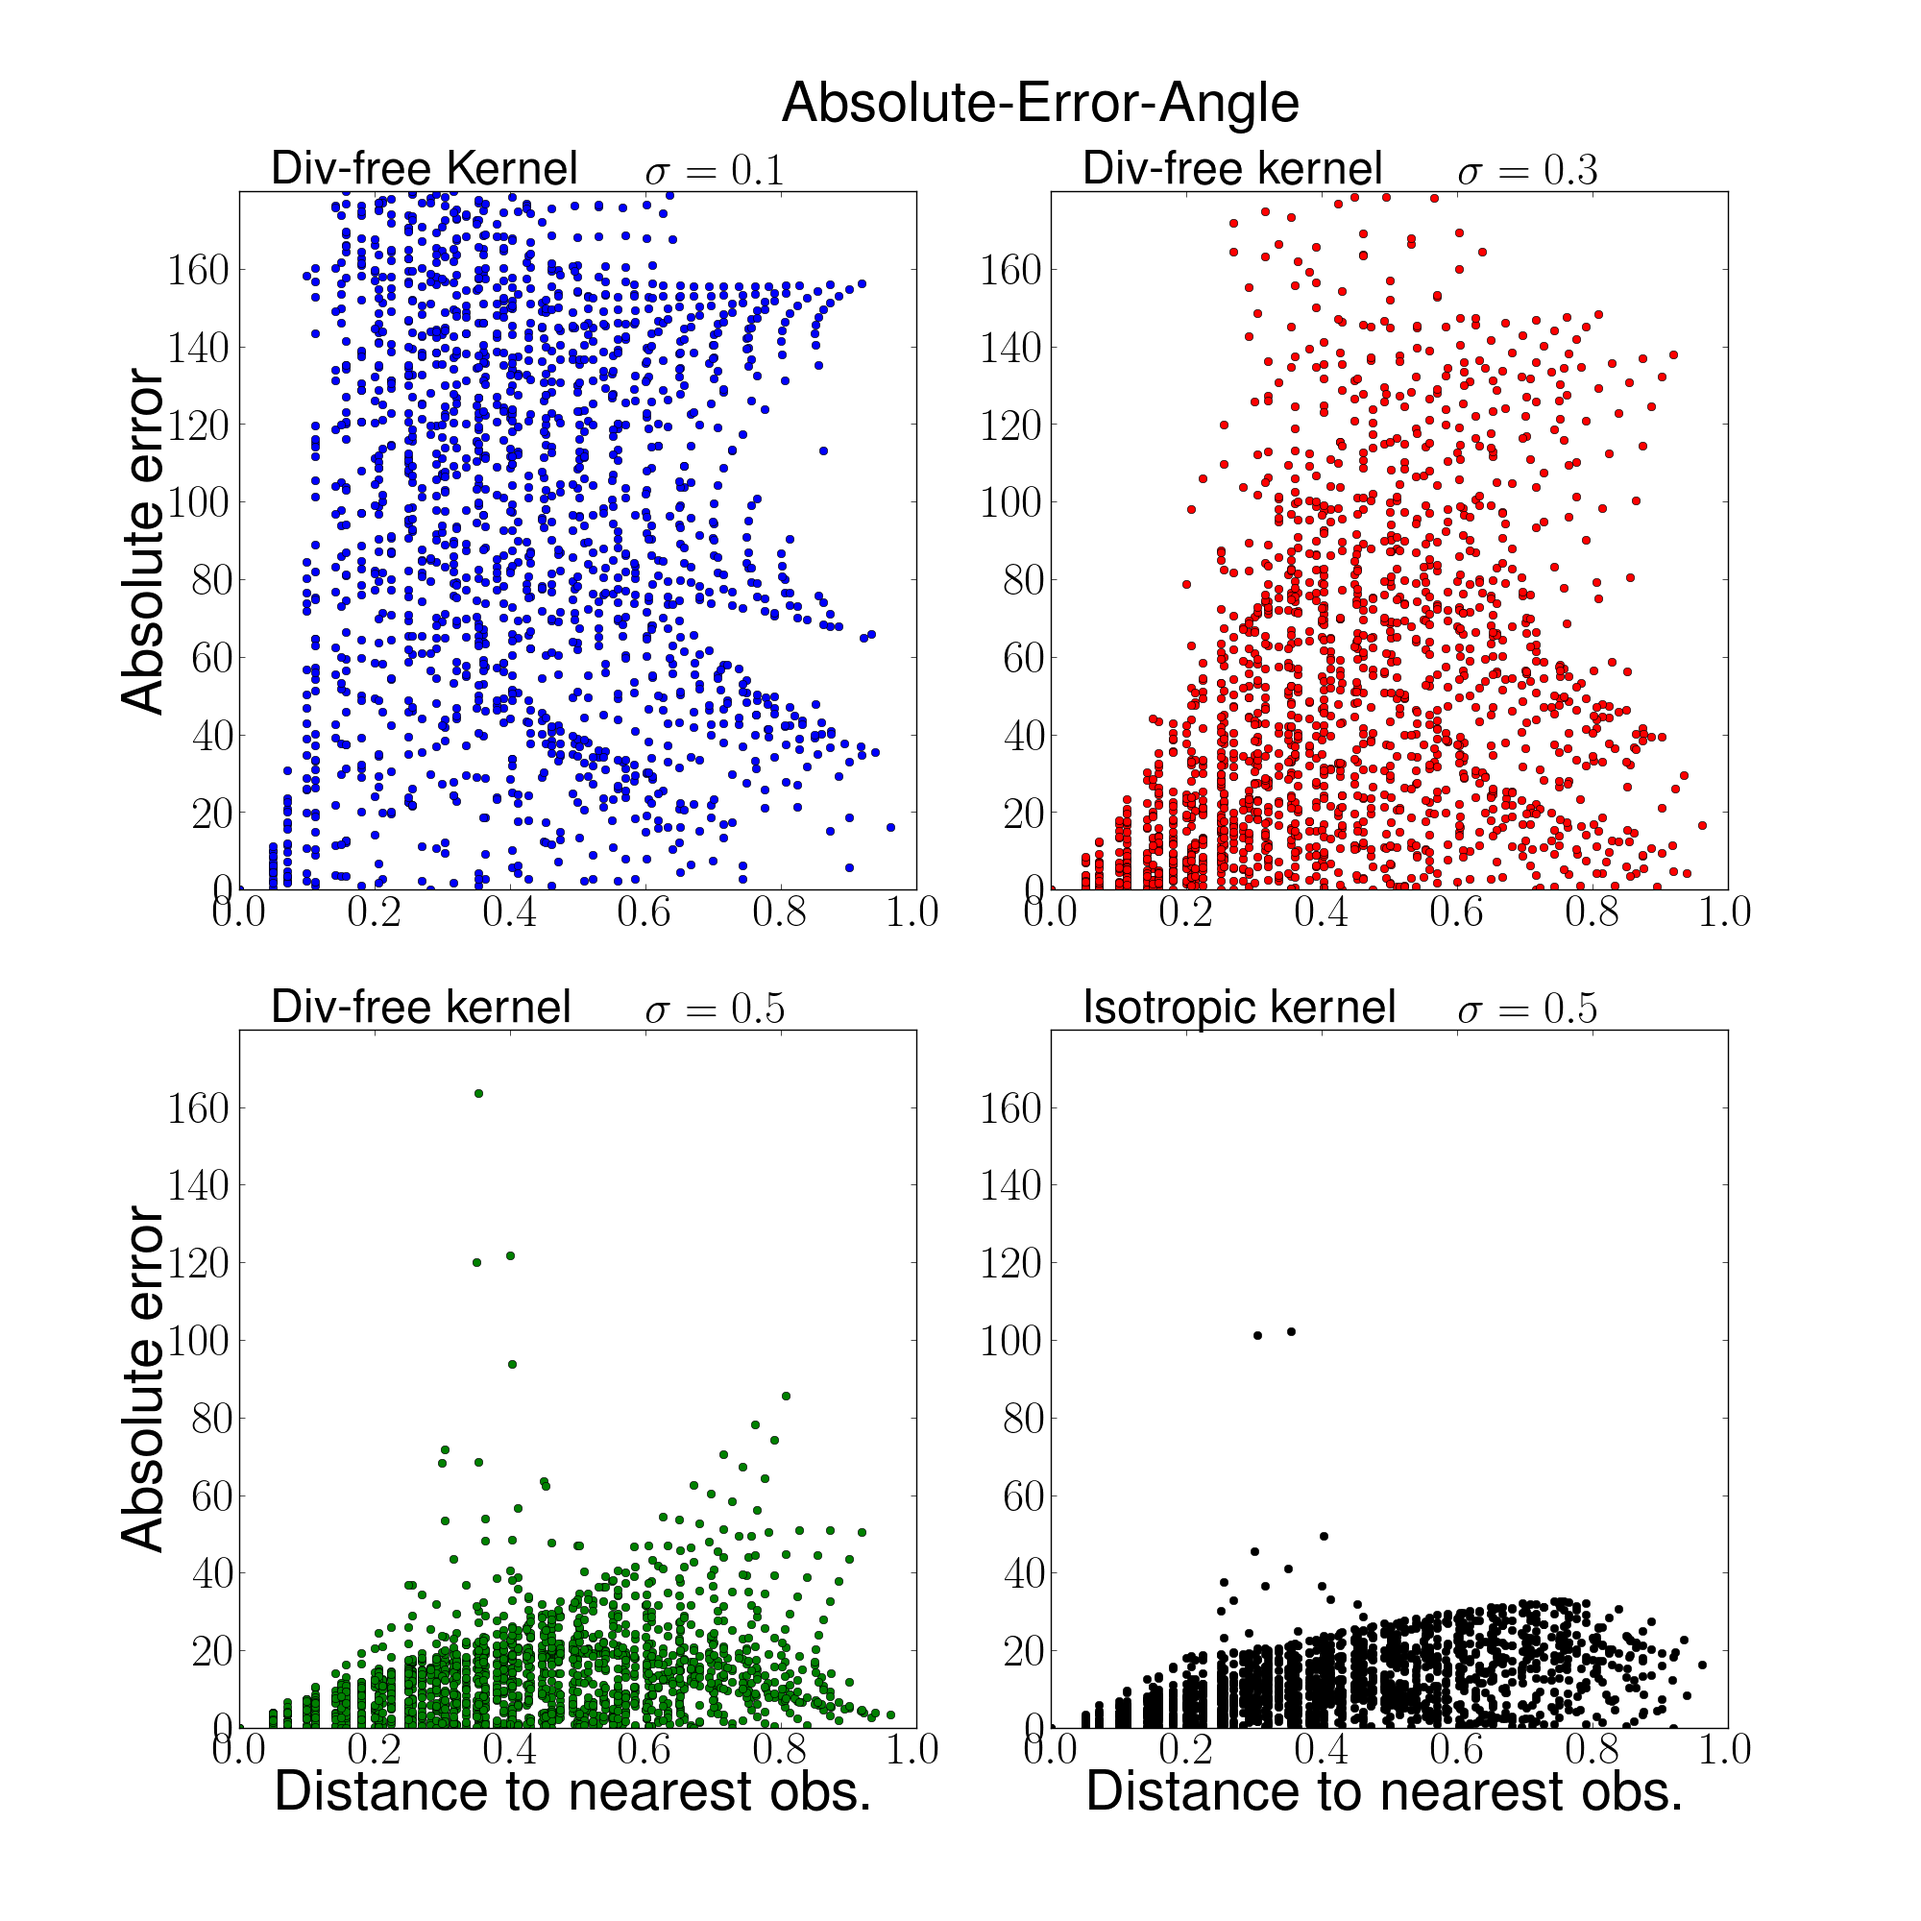
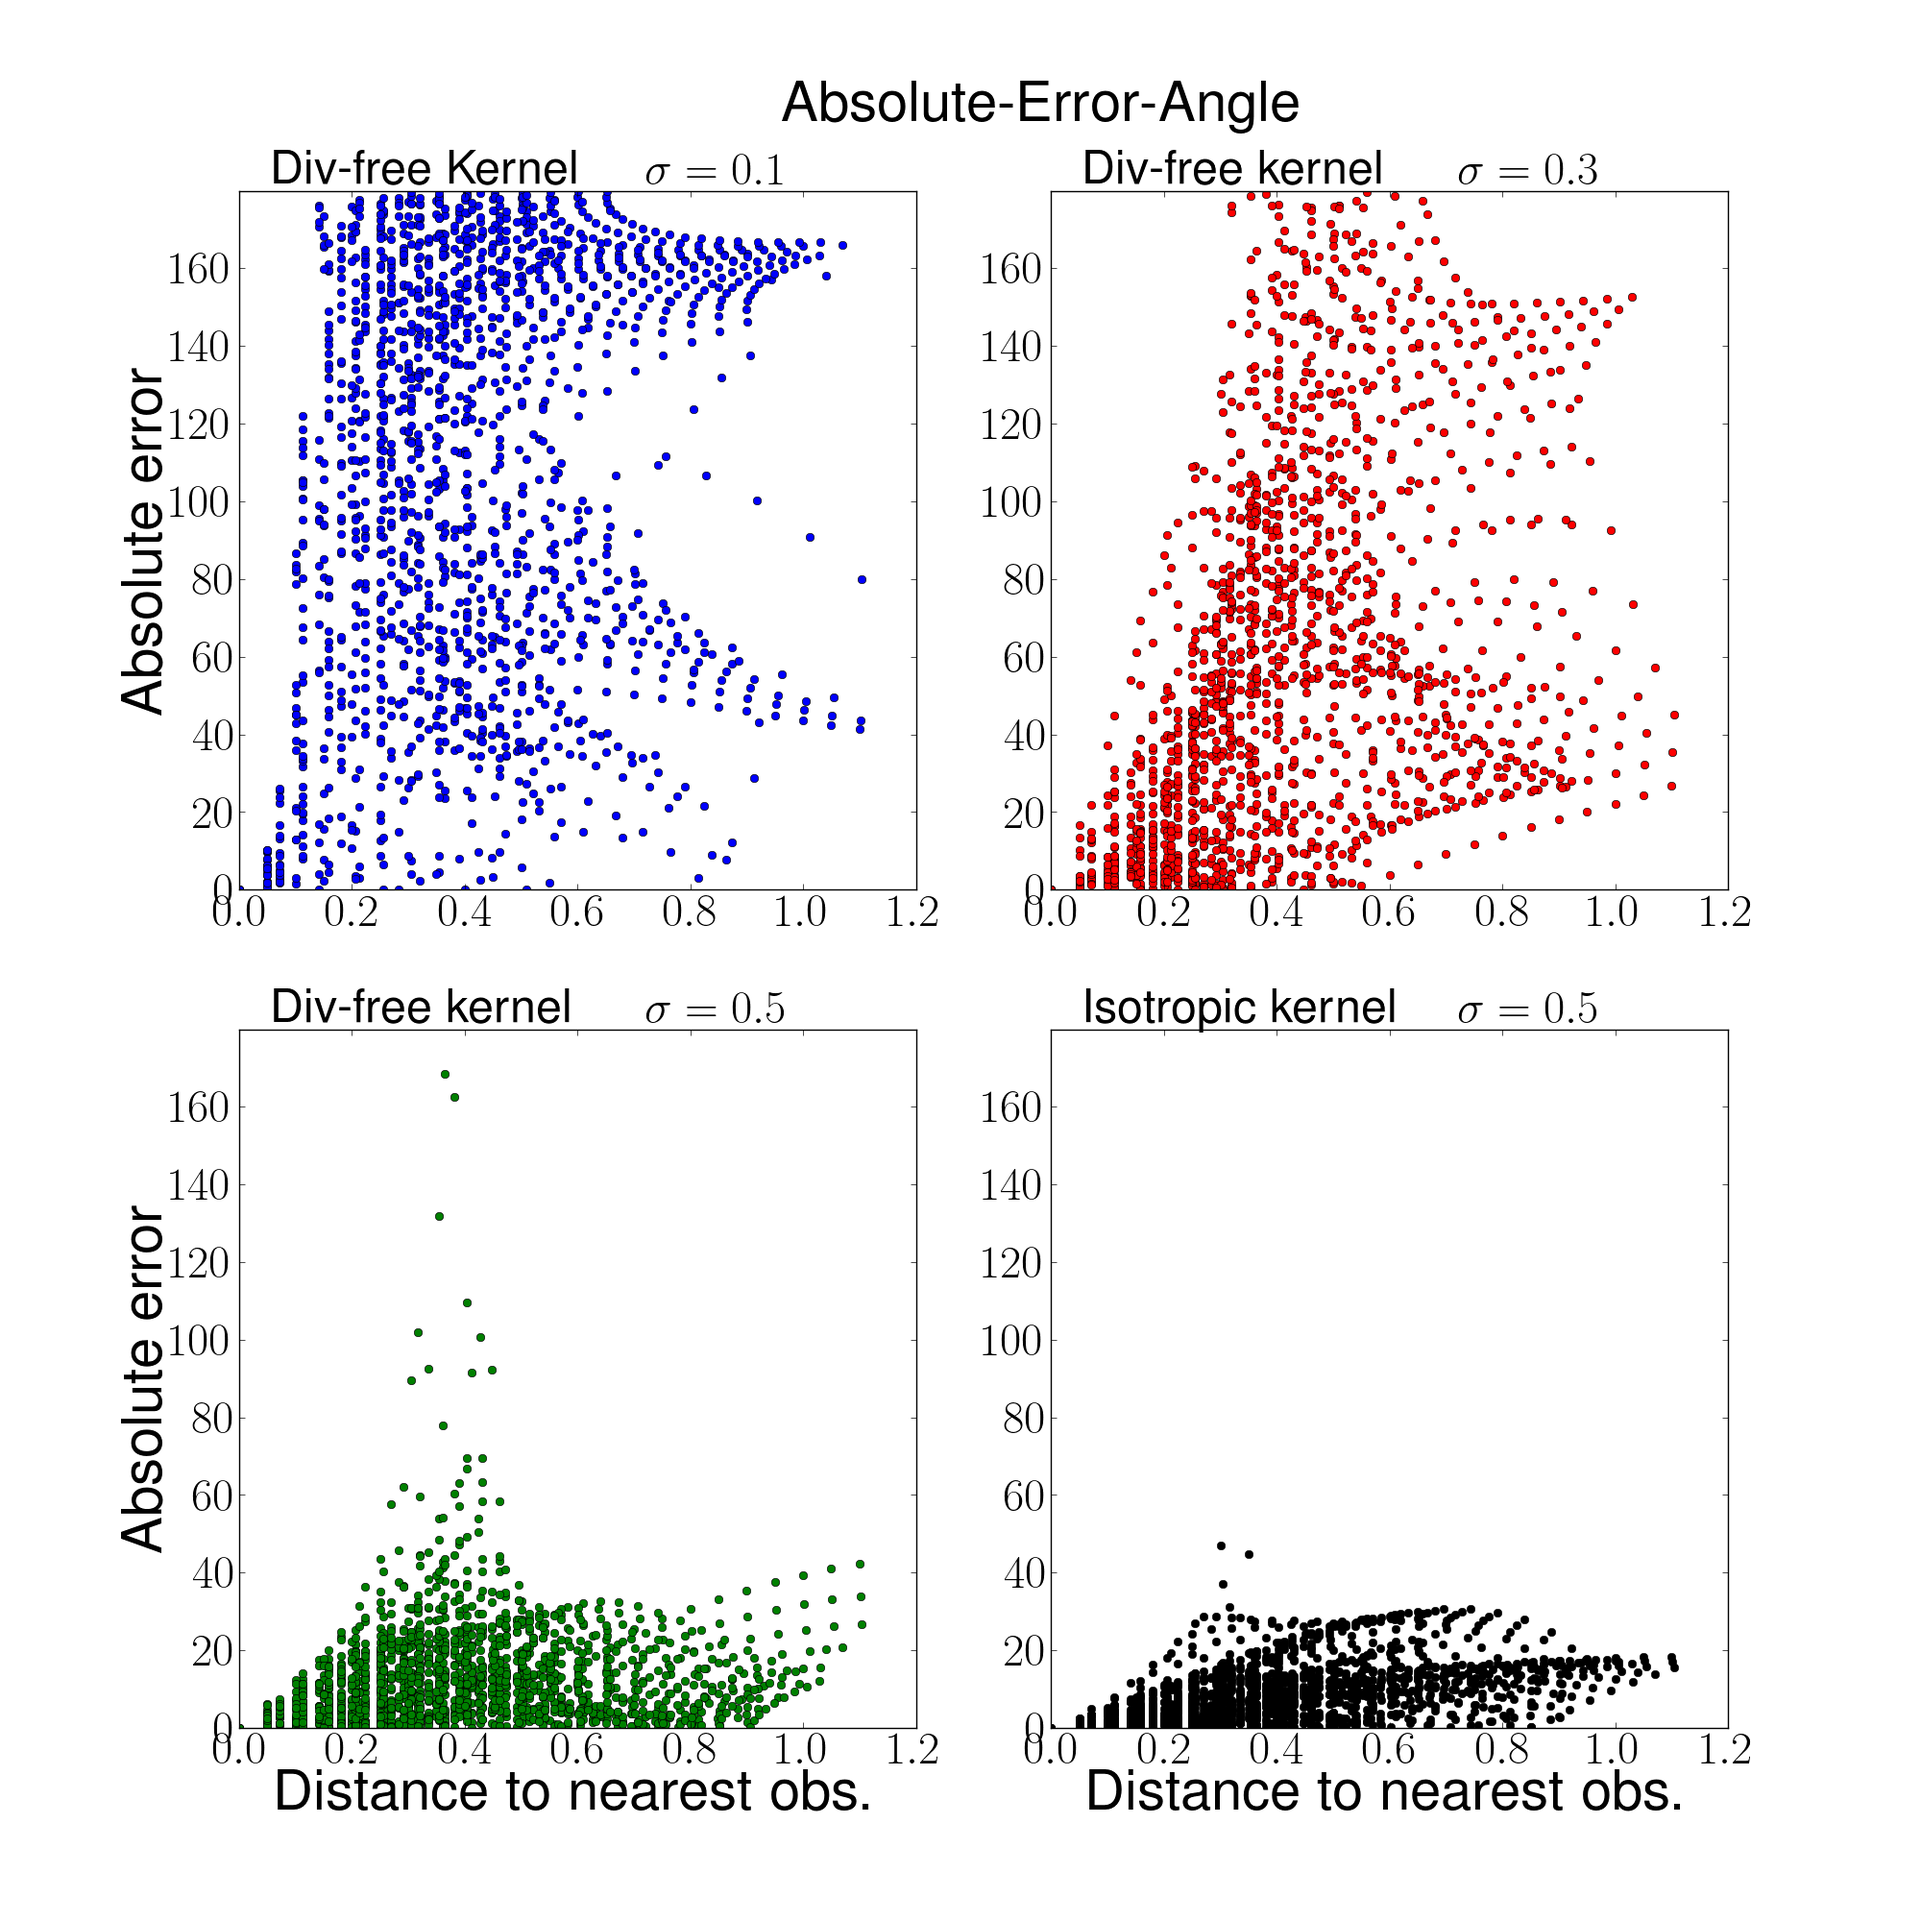
Plot improvements, report and single vector plots(incomplete)

diff --git a/report.tex b/report.tex
@@ -22,35 +22,93 @@
 \author{}
 
 \begin{document}
-\section{Reconstruction of a non-divergent velocity field}
-In this exercise, I applied the non-divergent kernel to reconstruct 
-a non-divergent velocity field. The velocity field was created by taking 
-the curl of a 2D Gaussian surface. To reconstruct this velocity field, 
-20 random samples were taken as observations, and the grid of the reconstructed 
-velocity field was exactly the same as the one from the original velocity field. 
-No noise was added to the observations, and the observations where assumed to 
-have no error.
+
+\section{Building a velocity field with one observation}
+Here, the effect of a single observation is evaluated. Three different kernels are tested: 
+a divergence-free kernel, a curl-free kernel and an isotropic squared-exponential kernel. 
+\newpage
+\section{Building a velocity field with two observations}
+Here, the combined effect of two observations in the construction of a velocity field using 
+the divergence-free kernel is explored. Figures \ref{2-vec-45}, \ref{2-vec-90}, and \ref{2-vec-180} 
+show the construction of velocity fields considering differences in the relative position of 
+the observations, intensity and direction.
+\begin{figure}
+\centering\includegraphics[width=36pc]{plots/2_vectors_angle_45.png}
+\caption{Velocity fields constructed from two observations (red vectors). 
+In each construction,  different distances between observations ($|x_2 - x_1|$) 
+and different absolute velocities of one observation ($|v_2|$) were considered. 
+For all 6 cases, the difference in the velocity direction is $\Theta=45^o$. }
+\label{2-vec-45}
+\end{figure}
+
+\begin{figure}
+\centering\includegraphics[width=36pc]{plots/2_vectors_angle_90.png}
+\caption{Velocity fields constructed from two observations (red vectors). 
+In each construction,  different distances between observations ($|x_2 - x_1|$) 
+and different absolute velocities of one observation ($|v_2|$) were considered. 
+For all 6 cases, the difference in the velocity direction is $\Theta=90^o$. }
+\label{2-vec-90}
+\end{figure}
+
+\begin{figure}
+\centering\includegraphics[width=36pc]{plots/2_vectors_angle_180.png}
+\caption{Velocity fields constructed from two observations (red vectors). 
+In each construction,  different distances between observations ($|x_2 - x_1|$) 
+and different absolute velocities of one observation ($|v_2|$) were considered. 
+For all 6 cases, the difference in the velocity direction is $\Theta=180^o$. }
+\label{2-vec-180}
+\end{figure}
 
 \newpage
+\section{Reconstruction of a non-divergent velocity field}
+
+In this exercise, the non-divergent kernel was applied to reconstruct 
+a non-divergent velocity field. The original velocity field (Figure \ref{div-free-field}) 
+was created by taking the curl of a 2D Gaussian surface. For the reconstruction, 3 
+different values of the decorrelation length ($\sigma$) were tested (0.1, 0.3 and 0.5). 
+For comparison, a fourth reconstruction was carried out using the isotropic squared 
+exponential kernel with $\sigma = 0.5$. The results of this exercise are presented on the 
+following figures.
+
+
+\begin{figure}
+\centering\includegraphics[width=20pc]{plots/non-div-field.png}
+\caption{Original velocity field.}
+\label{div-free-field}
+\end{figure}
+
+
+
+\begin{figure}
+\noindent\includegraphics[width=36pc]{plots/Reconstructed-Velocity.png}
+\caption{Reconstructed velocity fields considering different decorrelation 
+distances ($\sigma$) or kernels. Top-left, top-right and bottom-left: 
+divergence-free kernel with $\sigma=0.1$, $\sigma=0.3$, and $sigma=0.5$, 
+respectively. Bottom-right: isotropic squared-exponential kernel with 
+$\sigma=0.5$. The red dots indicate the location of the observations.}
+\label{vel_vectors}
+\end{figure}
+
+\begin{figure}
+\noindent\includegraphics[width=36pc]{plots/Velocity-Error.png}
+\caption{Difference between the reconstructed velocity fields from Figure 
+\ref{vel_vectors}} and the original velocity field (Figure \ref{div-free-field}).
+
+\label{vel_errors}
+\end{figure}
+
 
 \begin{figure}
 \noindent\includegraphics[width=36pc]{plots/Absolute-Error-U-contour.png}
-\caption{Absolute error of the zonal velocity for 4 different cases. Top-left: 
-divergence free kernel and decorrelation distance ($\sigma$) of 0.1. 
-Top-right: divergence-free kernel and $\sigma=0.3$. Bottom-left: 
-divergence-free kernel and $sigma=0.5$. Bottom-right: isotropic 
-squared-exponential kernel and $\sigma=0.5$. The black dots indicate the location 
-of the observations.}
+\caption{Absolute error of the zonal velocity component. The white 
+dots indicate the location of the observations.}
 \label{contour_u}
 \end{figure}
 
 \begin{figure}
 \noindent\includegraphics[width=36pc]{plots/Absolute-Error-U-scatter.png}
 \caption{Scatter plots of absolute error by distance to nearest observation of 
-the zonal velocity component for 4 different cases. Top-left: divergence free kernel and 
-decorrelation $\sigma=0.1$. Top-right: divergence-free kernel and 
-$\sigma=0.3$. Bottom-left: divergence-free kernel and $sigma=0.5$. Bottom-right: isotropic 
-squared-exponential kernel and $\sigma=0.5$.}
+the zonal velocity component.}
 \label{scatter_u}
 \end{figure}
 
@@ -81,14 +139,14 @@ squared-exponential kernel and $\sigma=0.5$.}
 
 \begin{figure}
 \noindent\includegraphics[width=36pc]{plots/Absolute-Error-Angle-contour.png}
-\caption{Same as \ref{contour_u} for the azimuth. }
+\caption{Same as \ref{contour_u} for the direction of the velocity (in degrees). }
 \label{contour_angle}
 \end{figure}
 
 \begin{figure}
 \noindent\includegraphics[width=36
 pc]{plots/Absolute-Error-Angle-scatter.png}
-\caption{Same as Figure \ref{scatter_u} for the azimuth. }
+\caption{Same as Figure \ref{scatter_u} for the direction of the velocity (in degrees). }
 \label{scatter_angle}
 \end{figure}
 

diff --git a/GP_plots.py b/GP_plots.py
@@ -231,7 +231,7 @@ def quiver4var(u1,v1,u2,v2,u3,v3,u4,v4,x,y,xo,yo,title,text1,text2):
    plot.tick_params(axis='both',which='major',labelsize=FS2)
 #   plot.set_title(title,fontsize = FS)
 
-   pl.savefig('plots/'+title+'quiver.png', bbox_inches=0)
+   pl.savefig('plots/'+title+'.png', bbox_inches=0)
 #####################################################################
 def run_example(nsamples = 5,divFree = 1):
    x,y,phi,xm,ym,um,vm = generate_2D_gaussian(divFree)
@@ -352,8 +352,8 @@ def run_example(nsamples = 5,divFree = 1):
    um = np.reshape(um,[xm.size,-1])
    vm = np.reshape(vm,[xm.size,-1])
 #   return x1s,x2s,u1,v1,u2,v2,u3,v3,u4,v4,um,vm,x1,x2 
-   quiver4var(u1-um,v1-vm,u2-um,v2-vm,u3-um,v3-vm,u4-um,v4-vm,X1s,X2s,x1,x2,'Velocity Error',text1,text2)
-   quiver4var(u1,v1,u2,v2,u3,v3,u4,v4,X1s,X2s,x1,x2,'Velocity vectors',text1,text2)
+   quiver4var(u1-um,v1-vm,u2-um,v2-vm,u3-um,v3-vm,u4-um,v4-vm,X1s,X2s,x1,x2,'Velocity-Error',text1,text2)
+   quiver4var(u1,v1,u2,v2,u3,v3,u4,v4,X1s,X2s,x1,x2,'Reconstructed-Velocity',text1,text2)
 
 #   plot=fig.add_subplot(221)
 #   plot.quiver(X1,X2,um,vm,scale = 1)
@@ -457,20 +457,72 @@ def singleVector():
    vo = np.array([0.])
    ob = np.concatenate([uo,vo])
    ob = np.reshape(ob,[ob.size,1])
-   K1 = gp.compute_K(xo,xo,0.1,1)
-   Ks1 = gp.compute_Ks(xo,xo,X,Y,0.1,1)
+   
+   K1 = sqExp(xo,xo,xo,xo,0.1)
    Ki1 = np.linalg.inv(K1)
-   f1 = gp.getMean(Ks1,Ki1,ob)
-   u1 = np.reshape(f1[0:f1.size/2],[x.size,-1])
-   v1 = np.reshape(f1[f1.size/2:],[x.size,-1])
+   Ks1 = sqExp(X,Y,xo,yo,0.1)
+   u1 = np.dot(Ks1,np.dot(Ki1,uo)) 
+   u1 = np.reshape(u1,[x.size,-1])
+   v1 = np.dot(Ks1,np.dot(Ki1,vo)) 
+   v1 = np.reshape(v1,[x.size,-1])
+
+   K2 = gp.compute_K(xo,xo,0.1,1)
+   Ks2 = gp.compute_Ks(xo,xo,X,Y,0.1,1)
+   Ki2 = np.linalg.inv(K2)
+   f2 = gp.getMean(Ks2,Ki2,ob)
+   u2 = np.reshape(f2[0:f2.size/2],[x.size,-1])
+   v2 = np.reshape(f2[f2.size/2:],[x.size,-1])
+
+   K3 = gp.compute_K(xo,xo,0.1,2)
+   Ks3 = gp.compute_Ks(xo,xo,X,Y,0.1,2)
+   Ki3 = np.linalg.inv(K3)
+   f3 = gp.getMean(Ks3,Ki3,ob)
+   u3 = np.reshape(f3[0:f3.size/2],[x.size,-1])
+   v3 = np.reshape(f3[f3.size/2:],[x.size,-1])
+
+   figH = 20
+   figW = 8
+   bottom = [0.68,0.35,0.02]
+   height = 0.3
+   left = 0.05
+   width = 0.9
+
+   FS = 38
+   FS2 = 32
+   scal = 25.
+
+   fig = pl.figure(figsize=(figW,figH))
+
+   plot=fig.add_axes([left,bottom[0],width,height])
+   cs=plot.quiver(x,y,u1,v1,scale=scal)
+   plot.tick_params(axis='both',which='major',labelsize=FS2)
+   plot.set_title('Isotropic kernel',fontsize = FS)
+
+   plot=fig.add_axes([left,bottom[1],width,height])
+   cs=plot.quiver(x,y,u2,v2,scale=scal)
+   plot.tick_params(axis='both',which='major',labelsize=FS2)
+   plot.set_title('Divergence-free kernel',fontsize = FS)
+
+   plot=fig.add_axes([left,bottom[2],width,height])
+   cs=plot.quiver(x,y,u3,v3,scale=scal)
+   plot.tick_params(axis='both',which='major',labelsize=FS2)
+   plot.set_title('Curl-free kernel',fontsize = FS)
+
+
 ###############################################################################
 def twoVectors(sigma = 0.2):
 #
-   figW = 20.
-   figH = 20.
+   figH = 18
+   figW = 13
+   bottom = [0.68,0.35,0.02]
+   height = 0.3
+   left = [0.07,0.56]
+   width = 0.4
+
    FS = 42
-   FS2 = 20
-   scal = 30.
+   FS2 = 32
+
+   scal = 25.
 #
    dx = 0.05
    x = np.arange(-1,1+dx,dx)
@@ -484,8 +536,10 @@ def twoVectors(sigma = 0.2):
    uo1 = 1.
    vo1 = 0.
 # observation 2, varying direction, intensity and location
-   xo2 = np.array([0.07,0.14,0.28])
-   yo2 = np.array([0.07,0.14,0.28])
+#   xo2 = np.array([0.07,0.14,0.28])
+#   yo2 = np.array([0.07,0.14,0.28])
+   xo2 = np.array([0.07,0.28])
+   yo2 = np.array([0.07,0.28])
    angle = np.array([45,90,180])
    absVel = np.array([0.5,1,2])
 #
@@ -513,23 +567,27 @@ def twoVectors(sigma = 0.2):
             # plot
             print jk
             print i,j,k
-            plot = fig.add_subplot(3,3,jk)
+#            plot = fig.add_subplot(3,3,jk)
+            plot=fig.add_axes([left[k],bottom[j],width,height])
             plot.quiver(X,Y,uf,vf,scale=scal)
             pl.quiver(xo,yo,uo,vo,scale=scal,color='r')
             plot.set_xlim([-0.6,0.8])
             plot.set_ylim([-0.6,0.8])
+            plot.set_xticks([-0.6,-0.3,0.,0.3,0.6])
+            plot.set_yticks([-0.5,-0.2,0.1,0.4,0.7])
+
 #            titleText = plot.text(0.7, 1.05, '',transform=plot.transAxes,
 #                               fontsize=FS,fontweight='bold')
             titleText1 = plot.text(0.05, 0.9, '',transform=plot.transAxes,
-                               fontsize=FS2+5,fontweight='bold',color='b')
+                               fontsize=FS2,fontweight='bold',color='b')
             titleText2 = plot.text(0.03, 0.03, '',transform=plot.transAxes,
-                               fontsize=FS2+5,fontweight='bold',color='b')
-            titleText3 = plot.text(0.54, 0.03, '',transform=plot.transAxes,
-                               fontsize=FS2+5,fontweight='bold',color='b')
-            titleText1.set_text('$\Theta='+str(angle[i])+'$')
+                               fontsize=FS2,fontweight='bold',color='b')
+            titleText3 = plot.text(0.7, 0.03, '',transform=plot.transAxes,
+                               fontsize=FS2,fontweight='bold',color='b')
+            titleText3.set_text('$\Theta='+str(angle[i])+'$')
             titleText2.set_text('$|v_2|='+str(absVel[j])+'$')
             dx2= np.round(np.sqrt(np.square(xo1-xo2[k])+np.square(yo1-yo2[k])),decimals=2)
-            titleText3.set_text('$|x_2-x_1|='+str(dx2)+'$')
+            titleText1.set_text('$|x_2-x_1|='+str(dx2)+'$')
             plot.tick_params(axis='both',which='major',labelsize=FS2)
             jk+=1
       pl.savefig(filename, bbox_inches=0)
